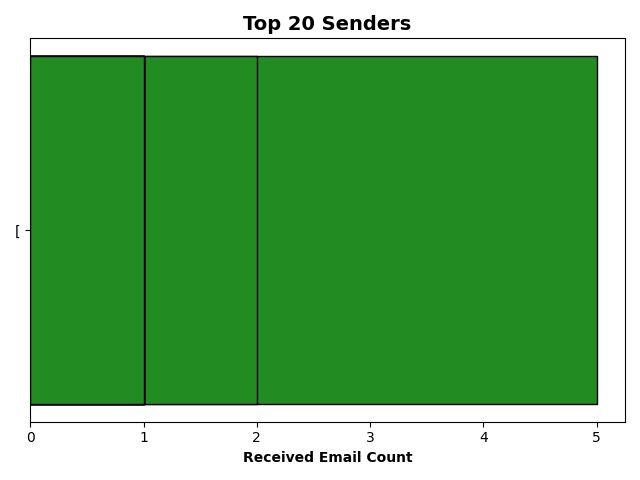
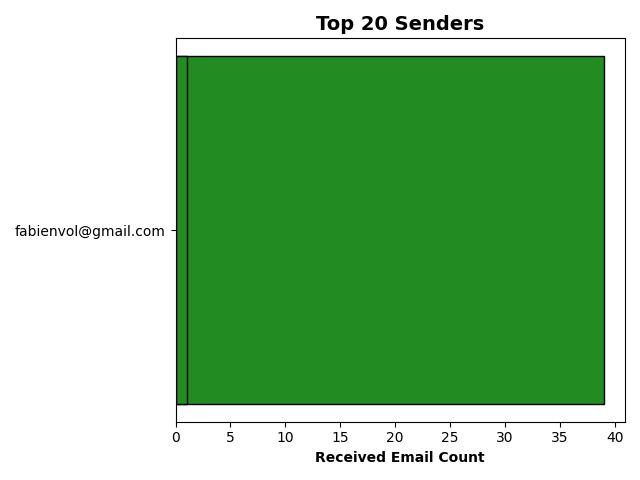
manuel utilisation & some modif

diff --git a/main.py b/main.py
@@ -20,17 +20,15 @@ if sender == "":
     sender = input("Enter the email adresse of the sender: ")
 
 if beginDate == "":
-    beginDate = input(
-        "Enter the begin date of the emails to treat (ex: 01-Aug-2019): ")
+    beginDate = input("Enter the begin date of the emails to treat (ex: 01-Aug-2019): ")
 
 if endDate == "":
-    endDate = input(
-        "Enter the end date of the emails to treat (ex: 31-Aug-2019):")
+    endDate = input("Enter the end date of the emails to treat (ex: 31-Aug-2019):")
 
-if analysis == 0:
+if analysis == "":
     analysis = int(
         input(
-            "Enter the analysis type \n1:Cloudword\n2:Top N Senders\n3:Weekly int(trafic graph\n--->"
+            "Enter the analysis type \n1:Cloudword\n2:Top N Senders\n3:Weekly trafic graph\n---> "
         )
     )
 
@@ -38,7 +36,13 @@ try:
     pandasDataFrameOfEmails = pd.read_csv(f"./outputs/emailsOf{username}.csv")
 except:
     pandasDataFrameOfEmails = getEmails(
-        username, password, -1, sender, beginDate, endDate
+        username,
+        password,
+        -1,
+        sender,
+        beginDate,
+        endDate,
+        # "imap-mail.outlook.com", "smtp.outlook.com"
     )
 if analysis == 1:
     generateCloudWord(pandasDataFrameOfEmails)

diff --git a/getEmails.py b/getEmails.py
@@ -17,17 +17,21 @@ def deleteForwardedMessagesFromMessage(message: str):
     return nextMessage
 
 
-def getEmails(username, password, limit=-1, sender="", beginDate="", endDate=""):
+def getEmails(
+    username,
+    password,
+    limit=-1,
+    sender="",
+    beginDate="",
+    endDate="",
+    imap_server="imap.gmail.com",
+    smtp_server="smtp.gmail.com",
+):
     # Ask for credentials if needed
     if username == "" and password == "":
         username = input("Enter user email: ")
         password = getpass("Enter user password: ")
     print("Fetching emails of ", username, "...")
-
-    # imap_server = "imap-mail.outlook.com"
-    # smtp_server = "smtp.outlook.com"
-    imap_server = "imap.gmail.com"
-    smtp_server = "smtp.gmail.com"
 
     imapobj = imapclient.IMAPClient(imap_server, ssl=True)
     imapobj.login(username, password)
@@ -42,7 +46,7 @@ def getEmails(username, password, limit=-1, sender="", beginDate="", endDate="")
     imapobj.select_folder("Inbox", readonly=True)
     conditions = []
     if sender != "":
-        print("sender" + sender)
+        print(sender)
         conditions.append("FROM")
         conditions.append(sender)
 

diff --git a/devConfig.py b/devConfig.py
@@ -1,4 +1,4 @@
-sender = 0
-beginDate = "19-Nov-2019"
-endDate = "20-Nov-2020"
-analysis = 2
+sender = "fabienvol"
+beginDate = ""
+endDate = ""
+analysis = ""

diff --git a/README.md b/README.md
@@ -1,1 +1,30 @@
 # Manuel d'utilisation
+
+## Prérequis
+* Si vous utilisez un compte gmail il faut désactiver une sécurité sur votre boite mail: **Less secure app access**.
+
+* Si vous utilisez un compte outlook (hotmail, live ...) il faut décommenter la ligne 45 du fichier `main.py`.
+
+## Installation et lancement
+1. Clonez ce projet sur votre machine.
+2. Si vous souhaitez conserver vos credentials en local créez un fichier "config.py" qui est placé à la racine du projet contenant les lignes suivantes (pas d'inquiétude ce fichier est ignoré par git :wink:) :
+            
+        username = "yourEmail"
+        password = "yourPassword"
+        
+3. Installez python 3 sur votre machine
+4. Installez les librairies nécessaires
+    
+        pip3 install pandas wordcloud matplotlib nltk numpy pprintpp datetime imapclient pyzmail36
+
+5. Exécutez la commande suivante dans un terminal, à la racine du projet:
+
+        python3 main.py
+
+6. Vous n'avez plus qu'à suivre les instructions, bonne analyse ! :grin:
+
+
+## Notes supplémentaires:
+
+* Une fois une fichier csv généré avec une adresse email vous n'aurez plus à récupérer les données en ligne.
+* Vous pouvez configurer certains paramètres comme la date ou le sender dans le fichier `devConfig.py`
